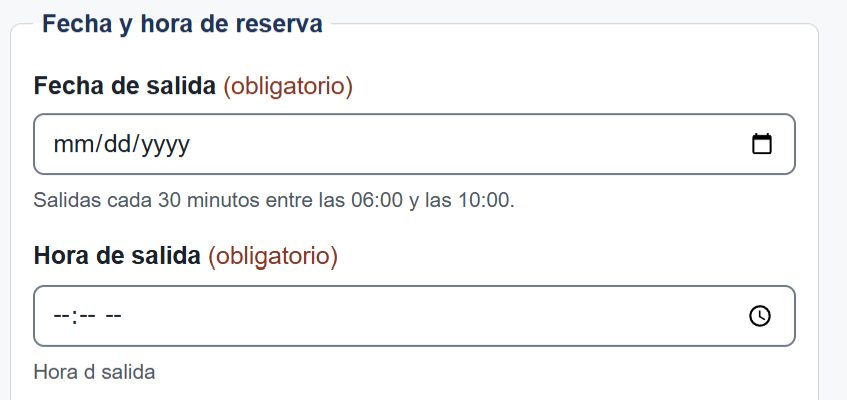
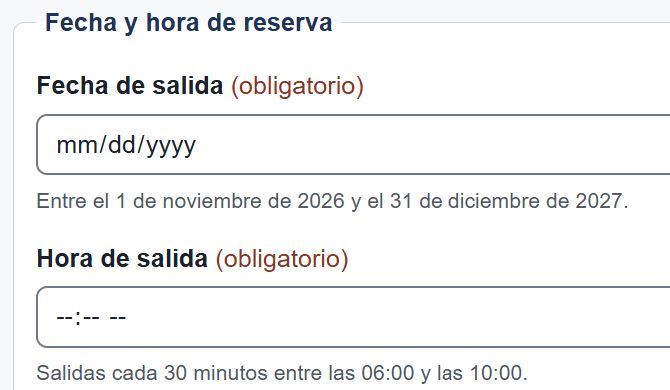
docs: captura corregida de la fecha, enlace de evidencia y hash en la respuesta

diff --git a/docs/auditoria-a-martinez-fernando.md b/docs/auditoria-a-martinez-fernando.md
@@ -33,7 +33,7 @@
 | N.º | Requisito | Ubicación | Hallazgo | Norma | Evidencia | Severidad |
 |---|---|---|---|---|---|---|
 | 1 | Base 4: responsive | index.html, línea 6 | El meta viewport está comentado, por eso en el celular la página se ve pequeña, como en computadora | WCAG 1.4.10 | [celular](evidencias/fer-01-celular.png), [código](evidencias/fer-01b-codigo.png) | Alta |
-| 2 | Base 4: responsive | index.html, línea 92 (iframe de 600 px) | Con un ancho real de 360 px (DevTools en modo Desktop) el mapa es más ancho que la pantalla y parte del contenido se corta | WCAG 1.4.10 | [captura](evidencias/fer-02-360.png) | Alta |
+| 2 | Base 4: responsive | index.html, línea 92 (iframe de 600 px) | Con un ancho real de 360 px (DevTools en modo Desktop) el mapa es más ancho que la pantalla y parte del contenido se corta | WCAG 1.4.10 | [captura](evidencias/fer-02-360px.png) | Alta |
 | 3 | Base 8: imágenes | index.html, línea 25 | La imagen principal no tiene alt; el validador marca error | WCAG 1.1.1 | [código](evidencias/fer-03-codigo.png), [validador](evidencias/fer-03-validador.png) | Alta |
 | 4 | Base 5: colores | estilos.css, líneas 140, 188 y 222 | Hay colores escritos directo (#ddd, #555, #ccc) y no como variables | Requisito base 5 | [colores 1](evidencias/fer-04a.png), [colores 2](evidencias/fer-04b.png), [colores 3](evidencias/fer-04c.png) | Media |
 | 5 | Ficha: estados del formulario | estilos.css, líneas 251 a 268 | Usa `:user-valid` y `:user-invalid`, pero la ficha pide `:valid` e `:invalid` | Ficha N.º 14 | [captura](evidencias/fer-05-css.png) | Alta |

diff --git a/docs/respuesta.md b/docs/respuesta.md
@@ -7,7 +7,7 @@
 
 | N.º de hallazgo | Decisión | Justificación con la norma | Evidencia antes y después | Commit |
 |---|---|---|---|---|
-| 1 | Acepta | WCAG 3.3.2: el ejemplo del placeholder y de la ayuda tiene un espacio (`+593 991234567`), pero el `pattern` no lo aceptaba. Se cambió el `pattern` a `\+593 ?[0-9]{9}` para aceptar el número con o sin espacio. Nota: el archivo es `index.html` (no `index_4.html`) y el `pattern` está en la línea 121, no en la 110. | [antes](evidencias/resp-01-antes.png), [después](evidencias/resp-01-despues.png) | f789ea0 |
+| 1 | `index.html`, línea 149: la ayuda de la fecha decía solo «Fecha de salida» y no indicaba qué fechas se aceptan (del 1/11/2026 al 31/12/2027) | WCAG 3.3.2 (Etiquetas o instrucciones) | [antes](evidencias/extra-01-antes.png), [después](evidencias/extra-01-despues.png) | 091ed08, 817eabf |
 | 2 | Acepta | El estándar WHATWG no obliga a que todo campo esté dentro de un `fieldset`, y el campo ya tenía su `label` asociado. Aun así se acepta como mejora: los demás campos están agrupados, y poner «Comentarios» en un `fieldset` con `legend` «Información adicional» mantiene la misma estructura en todo el formulario y le da contexto al lector de pantalla. | [antes](evidencias/resp-02-antes.png), [después](evidencias/resp-02-despues.png) | c4b36a0 |
 
 ## Problemas adicionales encontrados por mí
